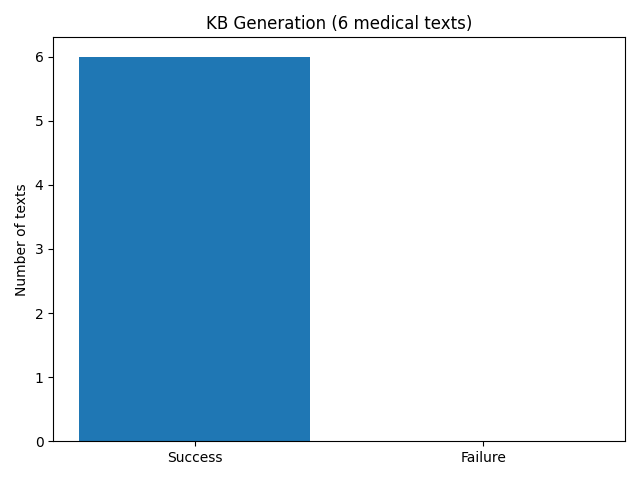
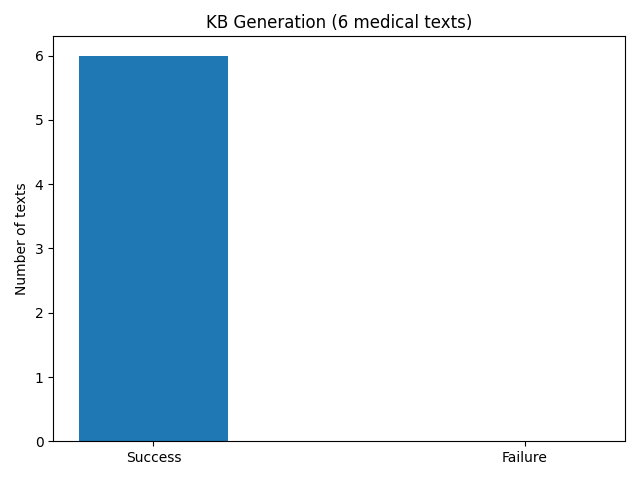
adjusted width of bars

diff --git a/input_modalities/evaluation/testing_suite/plots.py b/input_modalities/evaluation/testing_suite/plots.py
@@ -56,7 +56,7 @@ def _bar_with_labels(labels, values, title, ylabel="", ylim=None):
 
     plt.figure()
 
-    bars = plt.bar(labels, values)
+    bars = plt.bar(labels, values, width=0.4)
 
     if ylim:
         plt.ylim(*ylim)
@@ -102,7 +102,7 @@ def plot_modality_distribution():
 
     plt.figure()
 
-    plt.bar(distribution.keys(), distribution.values())
+    plt.bar(distribution.keys(), distribution.values(), width=0.5)
 
     plt.xticks(rotation=45)
 
@@ -220,7 +220,7 @@ def plot_kb_generation():
 
     plt.figure()
 
-    plt.bar(["Success", "Failure"], [success, fail])
+    plt.bar(["Success", "Failure"], [success, fail], width=0.4)
 
     plt.title(f"KB Generation ({len(data)} medical texts)")
 
@@ -234,7 +234,7 @@ def plot_kb_generation():
     names = [x["snippet"] for x in data]
     outcomes = [1 if x.get("success") else 0 for x in data]
 
-    plt.bar(names, outcomes)
+    plt.bar(names, outcomes, width=0.5)
 
     plt.xticks(rotation=45, ha="right")
     plt.ylim(0, 1.2)
@@ -335,7 +335,7 @@ def plot_diagnostic_by_category():
 
     plt.figure()
 
-    bars = plt.bar(labels, accuracies)
+    bars = plt.bar(labels, accuracies, width=0.5)
 
     plt.ylim(0, 1.15)
 
